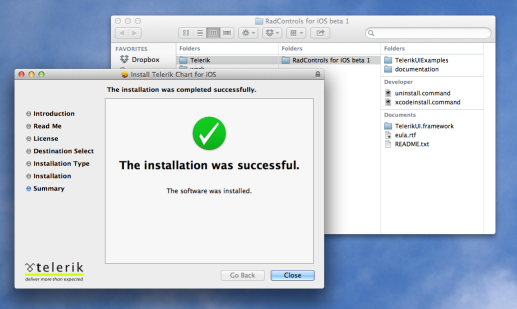
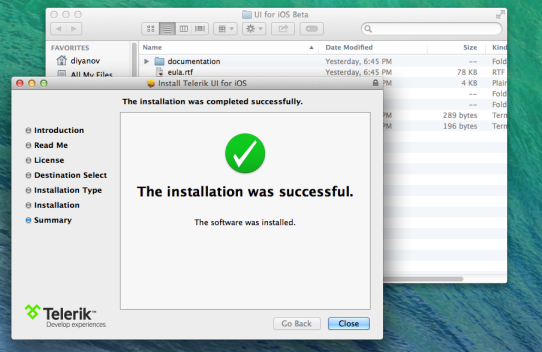
telerik ui

diff --git a/Guides/Chart/getting-started.md b/Guides/Chart/getting-started.md
@@ -12,7 +12,7 @@ This quick start tutorial demonstrates how to create a simple iOS application wi
 
 ##Prerequisites
 
-In order to start using TKChart, you have first to install the latest version RadControls for iOS. You can download it from: [www.telerik.com](http://www.telerik.com). The dmg file that you will download contains a ReadMe.txt file and the installation package - TelerikUI.pkg. Just double click the package icon and the installer will guide you trough the installation process. When done it will open the newly created folder in your Documents folder. This folder contains everything necessary in order to start using TKChart.
+In order to start using TKChart, you have first to install the latest version Telerik UI for iOS. You can download it from: [www.telerik.com](http://www.telerik.com). The file that you should download is the installation package - Telerik UI for iOS.pkg. Just double click the package icon and the installer will guide you trough the installation process. When done it will open the newly created folder in your Documents folder. This folder contains everything necessary in order to start using TKChart.
 
 <img src="../images/chart-overview003.png"/>
 
